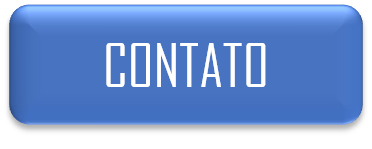
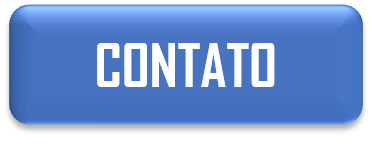
Menu atualizado

Changed region(s): [[0.2366, 0.2685, 0.7392, 0.5906]]

diff --git a/Main/menu.py b/Main/menu.py
@@ -1,9 +1,10 @@
 import pygame
- 
+from pygame.locals import *
+
 pygame.init()
  
 screen_largura = 800
-screen_altura = 600
+screen_altura = 700
 
 BLUE = (0, 0, 255)
 WHITE = (255,255,255)
@@ -15,6 +16,13 @@ background = pygame.Surface(screen.get_size())
 pygame.font.init()
 font = pygame.font.get_default_font()
 
+
+btnJogar = pygame.image.load('menu\\btnJogar.png').convert_alpha()
+btnRegras = pygame.image.load('menu\\btnRegras.png').convert_alpha()
+btnContato = pygame.image.load('menu\\btnContato.png').convert_alpha()
+btnPlacar = pygame.image.load('menu\\btnPlacar.png').convert_alpha()
+btnSair = pygame.image.load('menu\\btnSair.png').convert_alpha()
+
 #Tamanho do texto e fonte
 text_botaomenu = pygame.font.SysFont(font,40)
 text_titulo = pygame.font.SysFont(font,100)
@@ -23,9 +31,14 @@ background.fill((0, 0, 0))
 
 centralizado = screen_largura/2
 
+def dimensao_botao(botao):
+    novo_botao = pygame.transform.scale(botao,(int(372/2),int(149/2)))
+    return novo_botao
+    
 def titulo():
-    textoTitulo = text_titulo.render('COLORANDO', 1,WHITE)        
-    screen.blit(textoTitulo,(175,100))
+    titulo = pygame.image.load('menu\\titulo.png').convert_alpha()
+    novo_titulo = pygame.transform.scale(titulo,(int(726/2), int(217/2)))
+    screen.blit(novo_titulo,(210,50))
 
 def botoesMenu(color,x,y,width,height,titulo,posicaoTexto):
     pygame.draw.rect(screen, color, [x, y, width, height])
@@ -35,13 +48,20 @@ def botoesMenu(color,x,y,width,height,titulo,posicaoTexto):
 
 class menu:
     titulo()
-    btnJogar = botoesMenu(BLUE,300,250,200,30,'Jogar',360)
-    btnRegras = botoesMenu(BLUE,300,300,200,30,'Regras',355)
-    btnContato = botoesMenu(BLUE,300,350,200,30,'Contato',350)
-    btnPlacar = botoesMenu(BLUE,300,400,200,30,'Placar',355)
-    btnSair = botoesMenu(BLUE,300,500,200,30,'Sair',370)
+    screen.blit(dimensao_botao(btnJogar),(300,200))
+    screen.blit(dimensao_botao(btnRegras),(300,300))
+    screen.blit(dimensao_botao(btnContato),(300,400))
+    screen.blit(dimensao_botao(btnPlacar),(300,500))
+    screen.blit(dimensao_botao(btnSair),(300,600))
 
 
 menu()
 
 pygame.display.flip()
+
+while True:
+
+    for event in pygame.event.get():
+        if event.type == QUIT:
+            pygame.quit()
+            exit()

diff --git a/Main/mapa.py b/Main/mapa.py
@@ -1,7 +1,7 @@
 import pygame
 import os
 from pygame.locals import *
-import globals
+import globals 
 
 
 class mapa(object):
